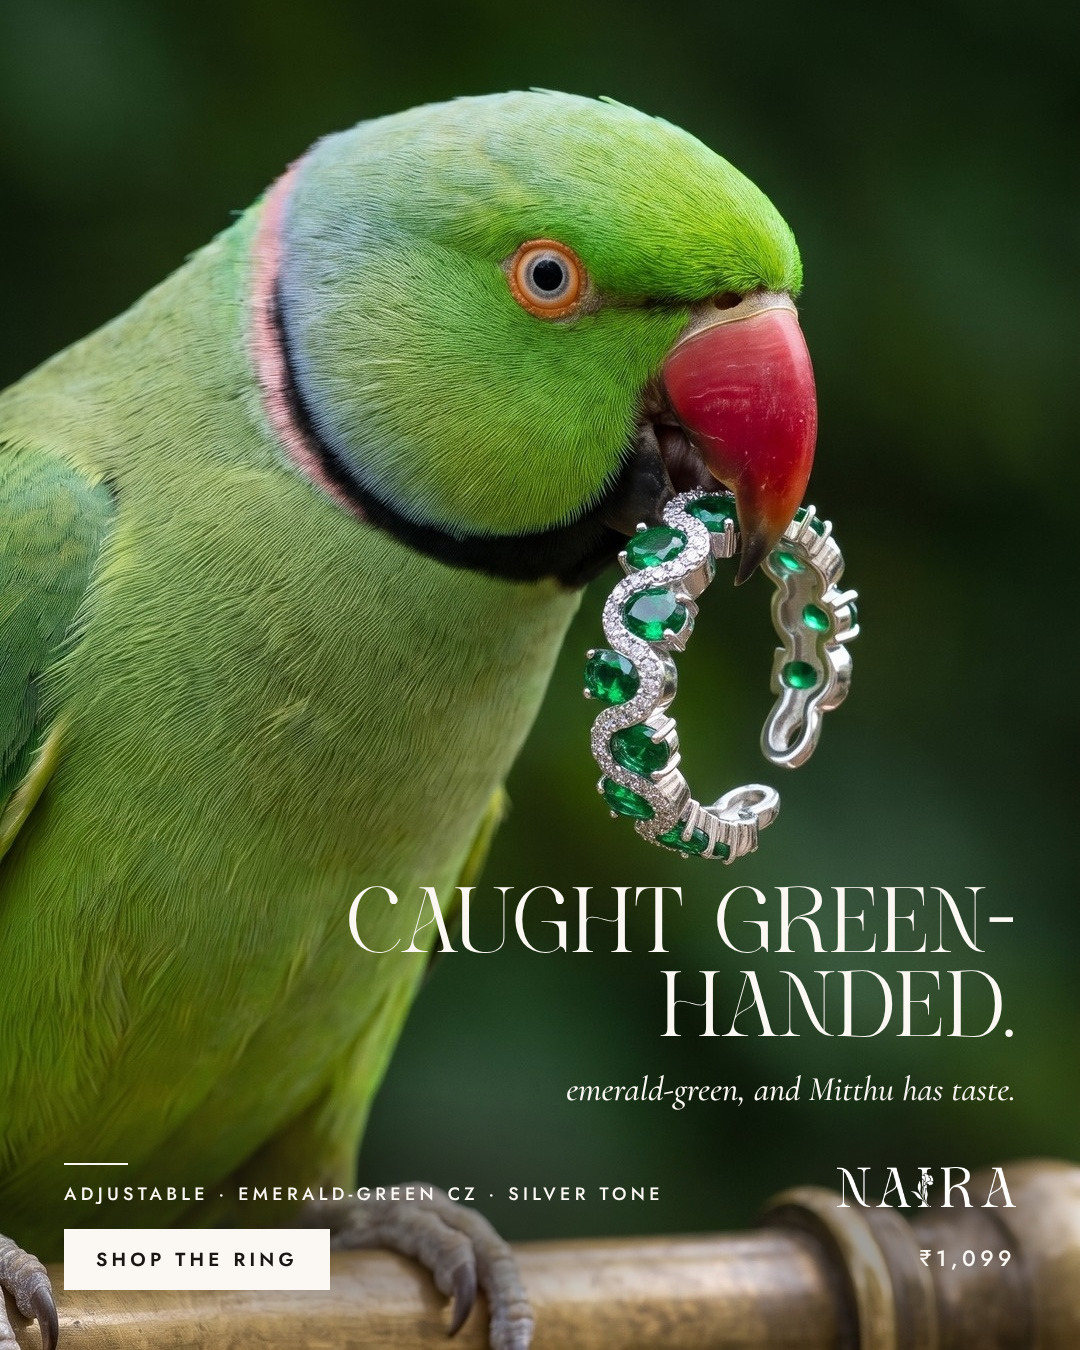
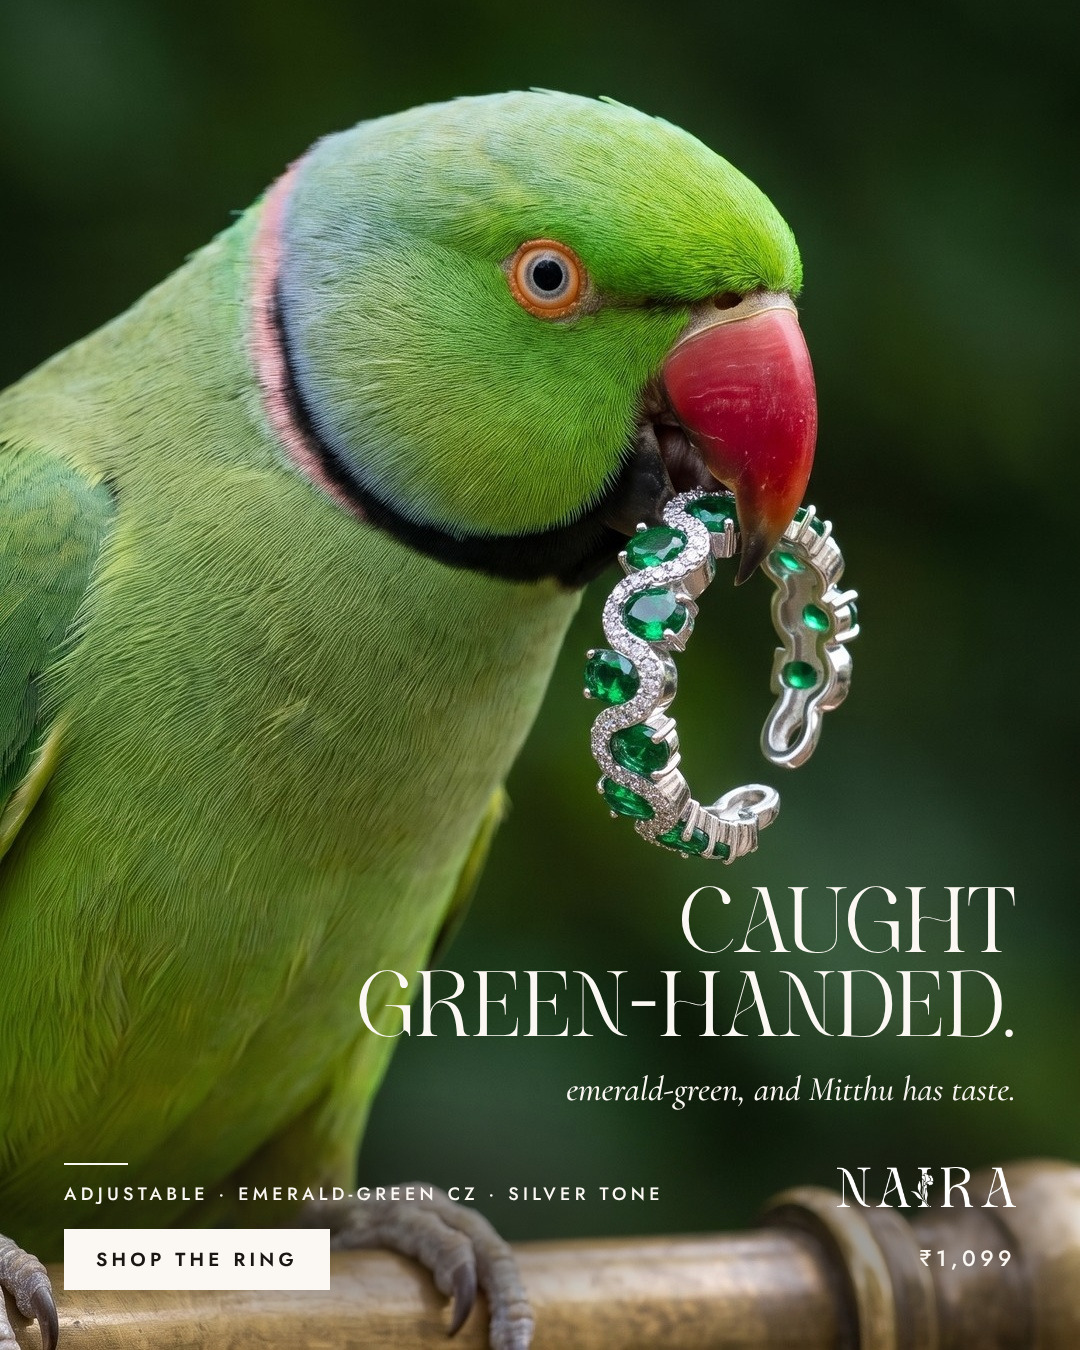
Crazy round two: C26 headline breaks before green-handed
Claude-Session: https://claude.ai/code/session_015dHqE92KQXn2h19sPkpsQR

Changed region(s): [[0.3361, 0.6533, 0.9472, 0.7778], [0.3056, 0.6533, 0.3667, 0.7156]]

diff --git a/docs/creative/performance/build/ad_copy.py b/docs/creative/performance/build/ad_copy.py
@@ -448,6 +448,7 @@ CZ_FIX = {
  "C28": {"h": "Dhanteras,<br>sorted."},
  "C42": {"h": "Keep<br>the<br>ribbon.", "hs": 84, "w": 330, "at": "tl", "fixed": True, "feed": {"y": 290}, "story": {"y": 300}},
  "C37": {"feed": {"at": "tr", "fixed": True, "y": 560, "hs": 84, "w": 380}},
+ "C26": {"h": "Caught<br><span style=\"white-space:nowrap\">green-handed.</span>"},
  "C20": {"h": "Cherry earrings,<br>grown up.", "w": 900, "story": {"at": "tl", "fixed": True, "y": 300, "hs": 96}},
 }
 
@@ -571,6 +572,7 @@ def nowrap(spec):
 
 def glue_h(h):
     """keep a short word with the next one, so no headline line is a lone "IT", "BUT" or "note." """
+    if "<span" in h: return h                                       # breaks set by hand inside markup
     h = re.sub(r"\b(\w{1,3}) (?=\S)", lambda m: m.group(1) + "\u00a0", h)
     return re.sub(r" (\S+)$", "\u00a0\\1", h)                       # and the last word with the one before it
 
